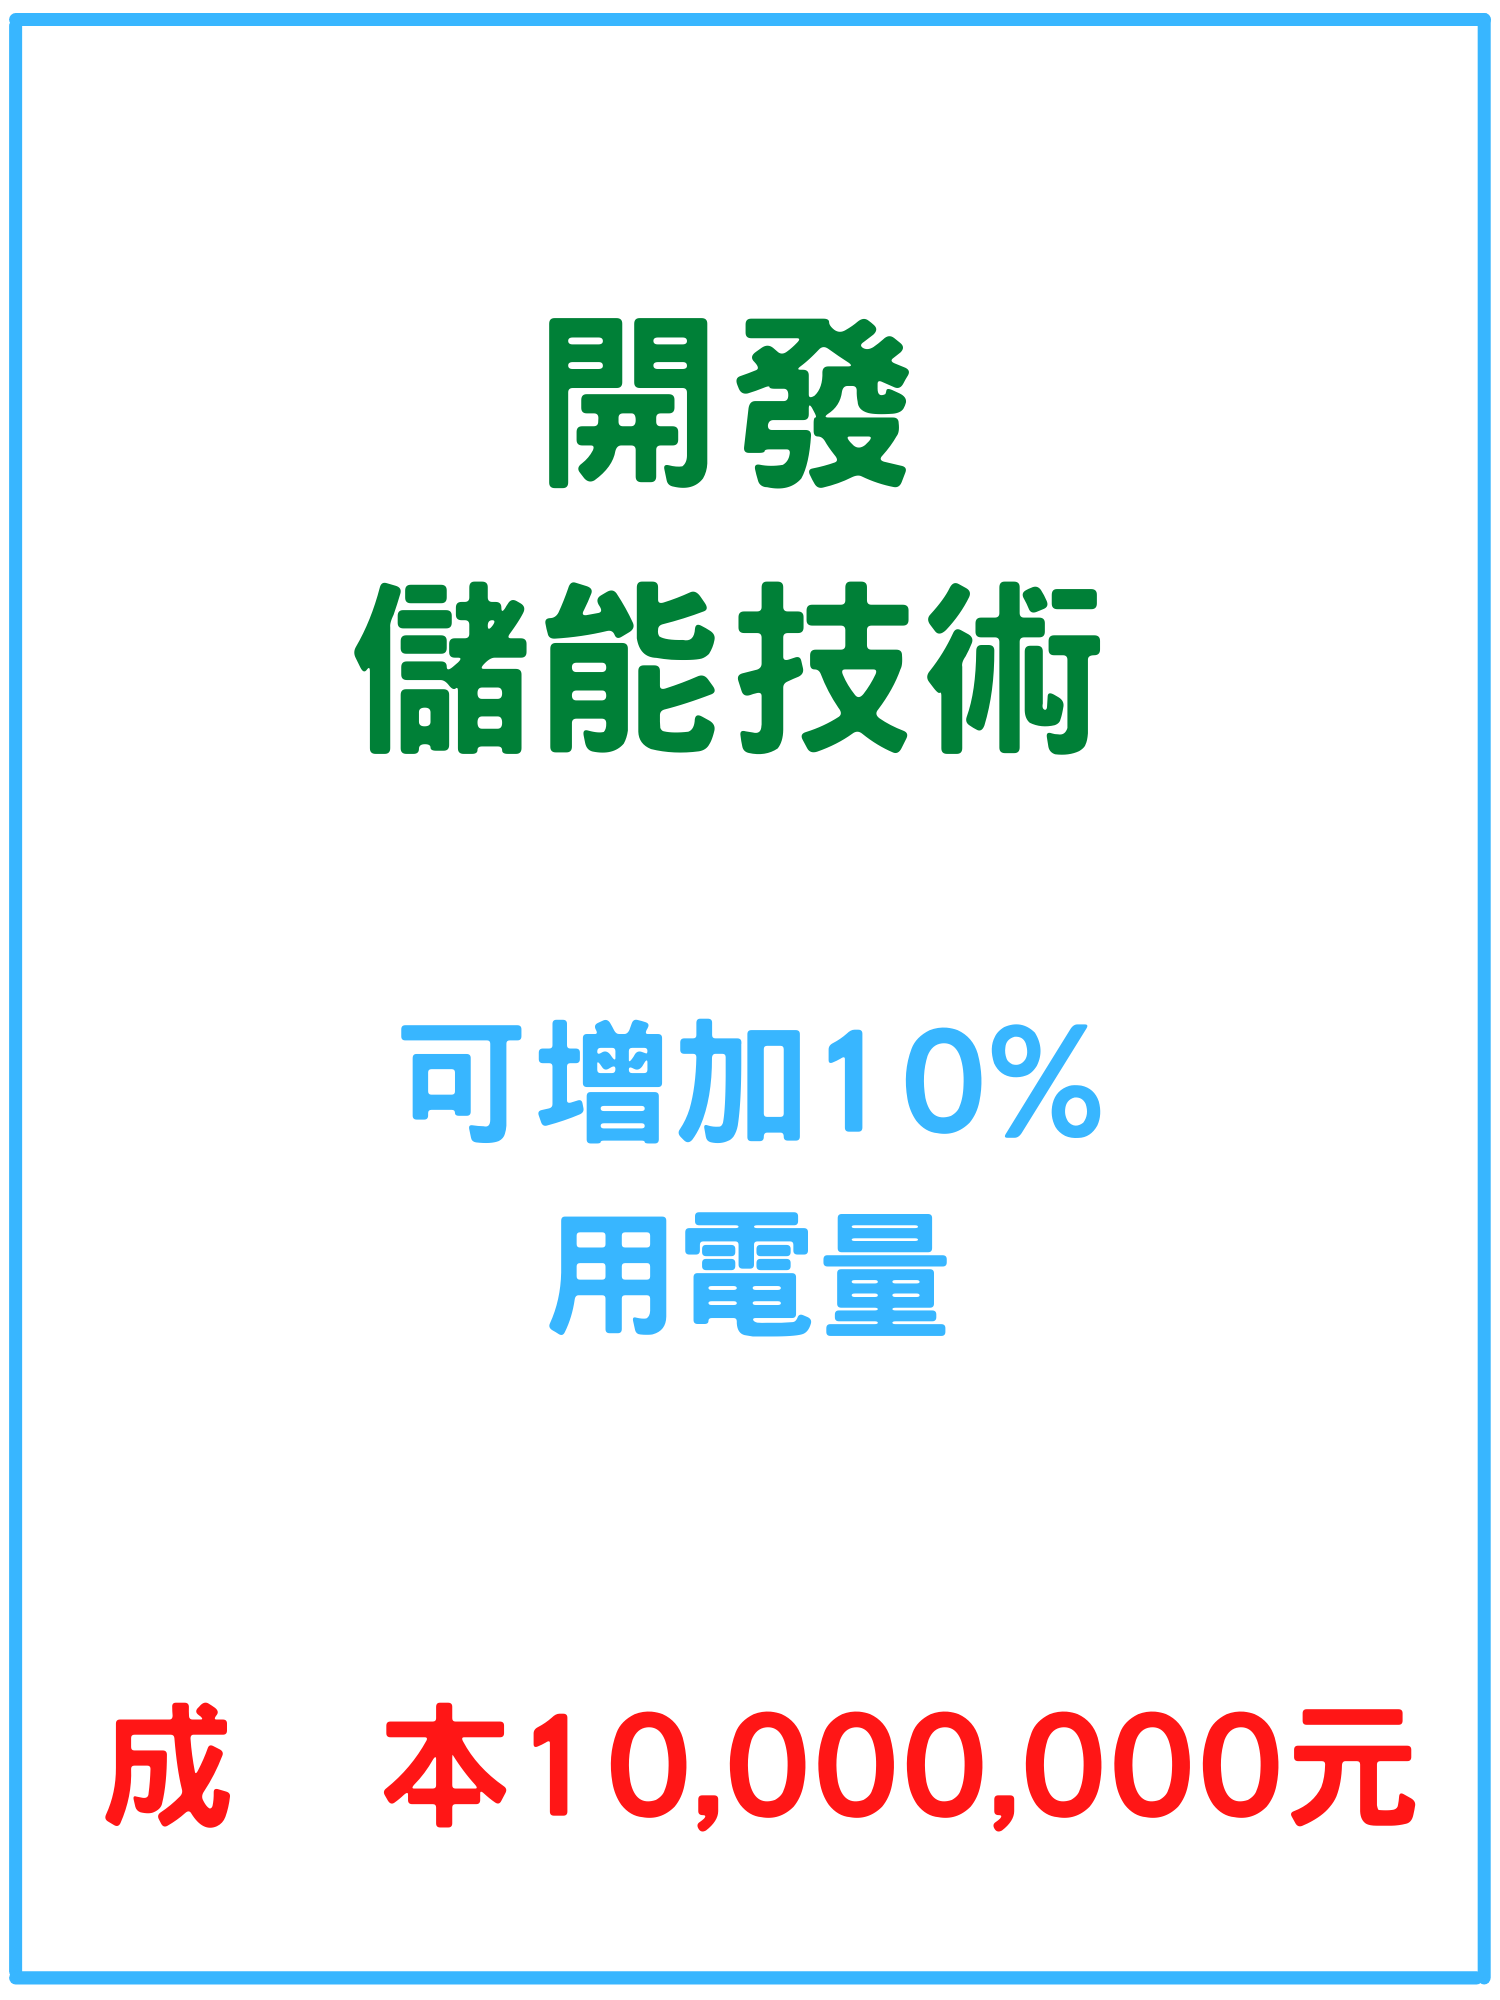
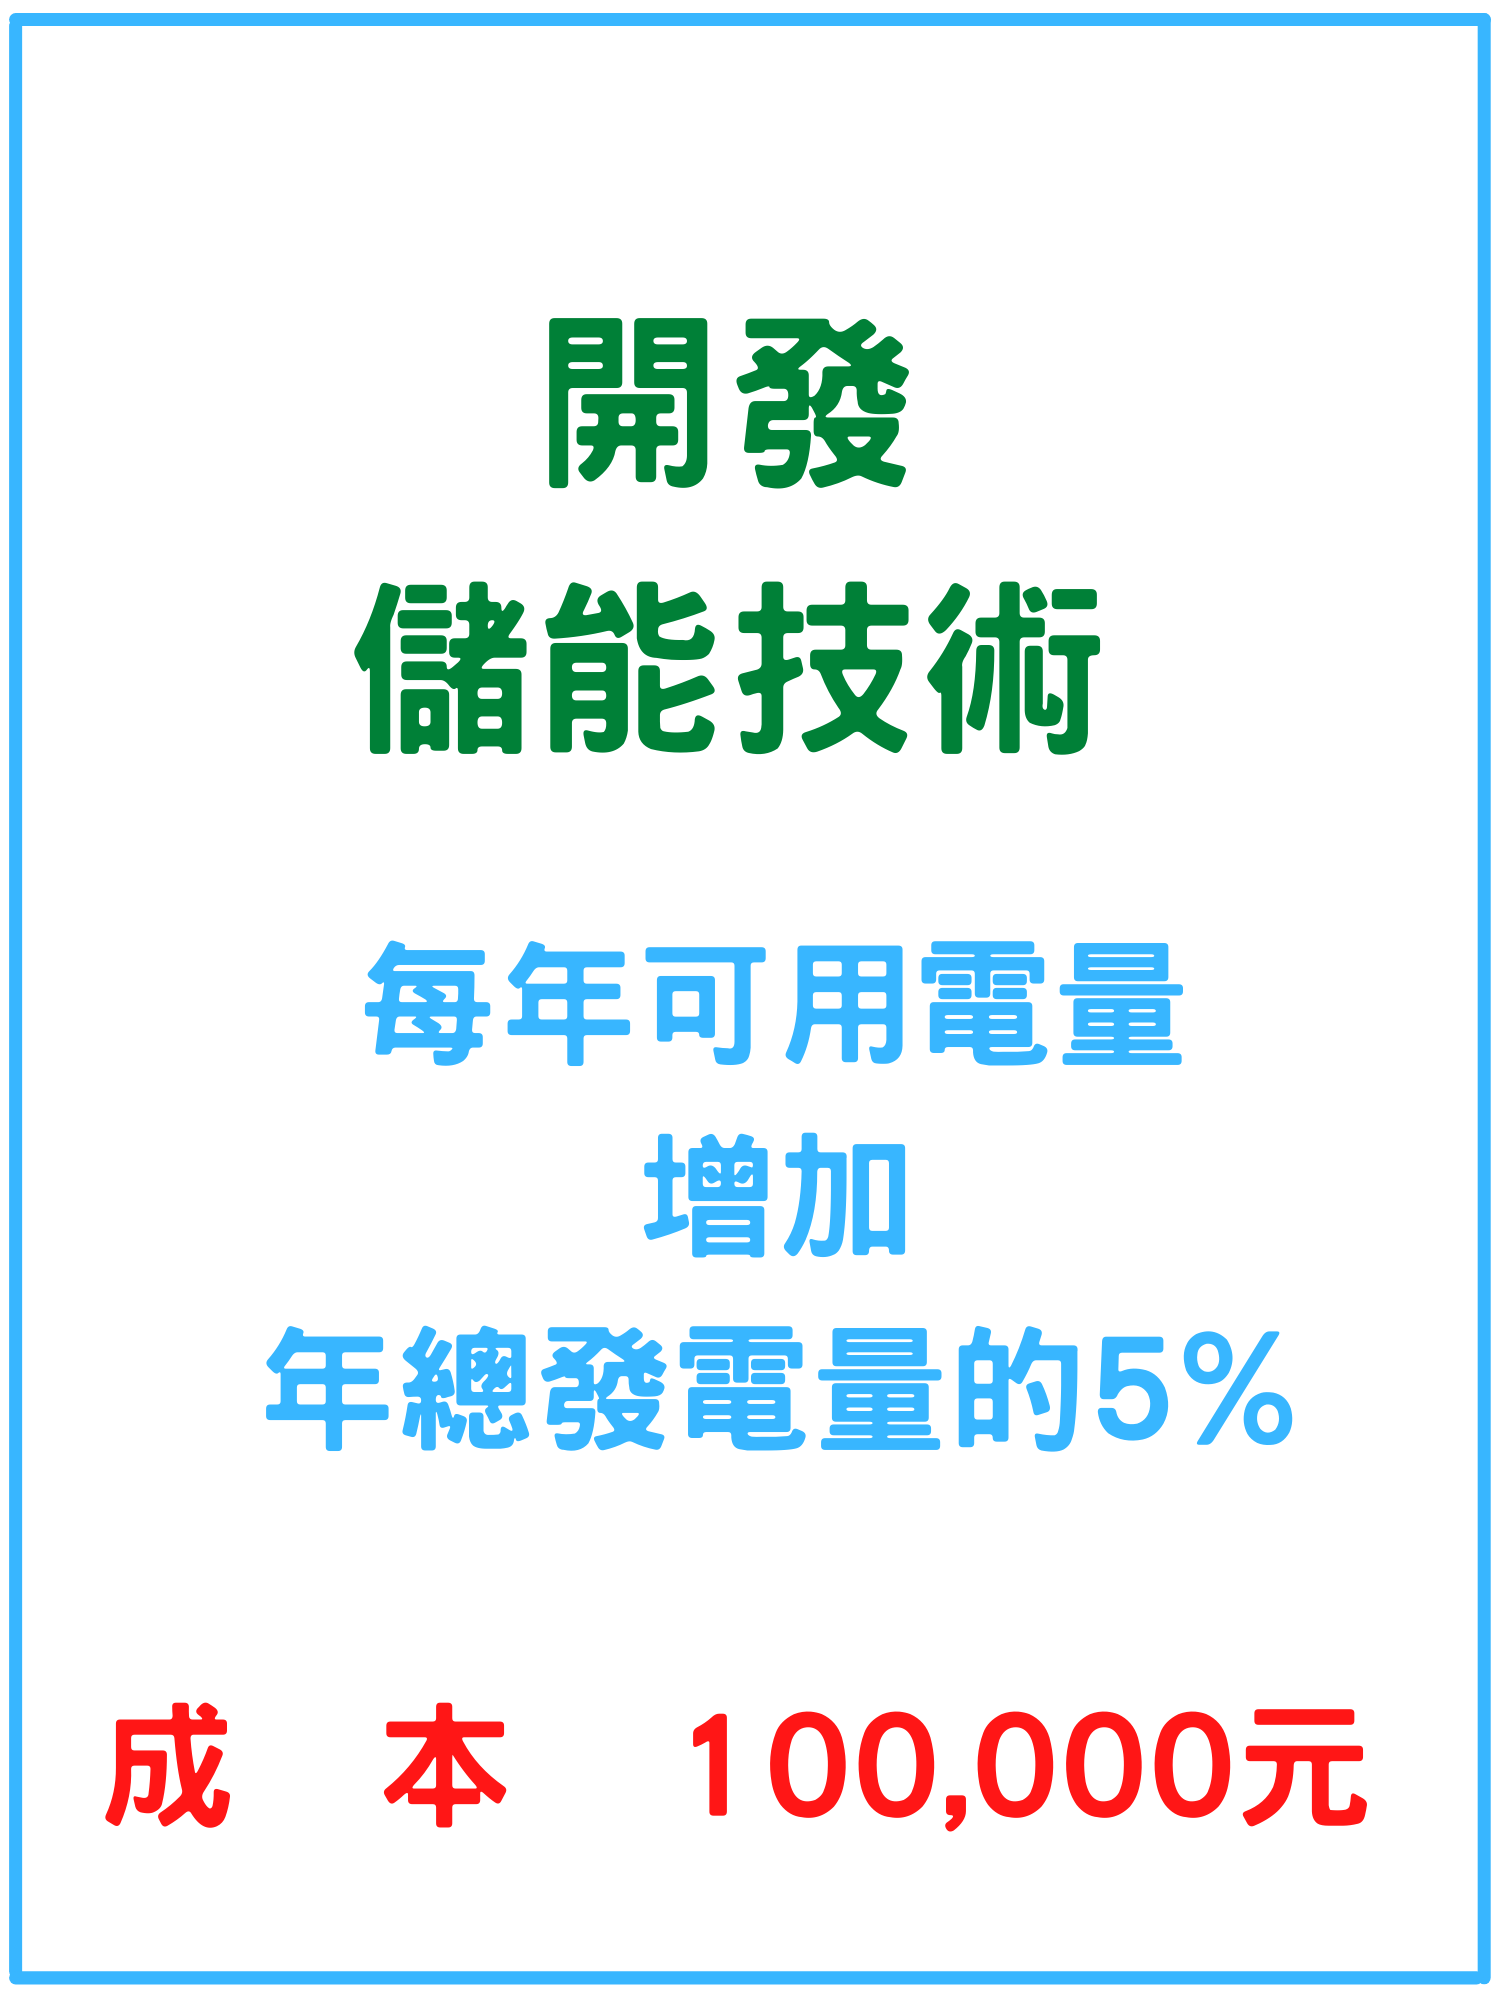
Add files via upload

Changed region(s): [[0.184, 0.465, 0.8587, 0.744], [0.3373, 0.837, 0.9507, 0.93]]

diff --git a/index.html b/index.html
@@ -133,11 +133,12 @@
 
   		<input  type="image"  name="png15"  id="png15"  img  src="15.png"  onClick="png15()" data-inline="true"style="width:23%">
   		<input  type="image"  name="png16"  id="png16"  img  src="16.png"  onClick="png16()" data-inline="true"style="width:23%;display: none;">
+  		<input  type="image"  name="png28"  id="png28"  img  src="28.png"  onClick="png28()" data-inline="true"style="width:23%;display: none;">
+  		<input  type="image"  name="png20"  id="png20"  img  src="20.png"  onClick="png20()" data-inline="true"style="width:23%;display: none;">
   		<input  type="image"  name="png17"  id="png17"  img  src="17.png"  onClick="png17()" data-inline="true"style="width:23%;display: none;">
   		<input  type="image"  name="png18"  id="png18"  img  src="18.png"  onClick="png18()" data-inline="true"style="width:23%;display: none;">
   		<input  type="image"  name="png27"  id="png27"  img  src="27.png"  onClick="png27()" data-inline="true"style="width:23%;display: none;">
-  		<input  type="image"  name="png19"  id="png19"  img  src="19.png"  onClick="png19()" data-inline="true"style="width:23%;display: none;">
-  		<input  type="image"  name="png20"  id="png20"  img  src="20.png"  onClick="png20()" data-inline="true"style="width:23%;display: none;">
+  		
 		
 
 	</div>
@@ -202,6 +203,8 @@ var powerUseful=0;
 var totalMoney=10;
 var totalcarbonEmission=0;
 
+var powerreuse=0;
+
 var level=1;
 
 var waternumber=0;
@@ -210,6 +213,8 @@ var gasnumber=0;
 var nuclearnumber=0;
 var solarnumber=0;
 var windnumber=0;
+
+
 
 
 function png1(){
@@ -548,7 +553,7 @@ function png15(){
 
 function png16(){
 
-	if(totalMoney>=100000&&annualIncome>=10000){
+	if(totalMoney>=100000&&annualIncome>=10000&&totalPower>=1000){
 
     totalMoney=totalMoney-100000;
 
@@ -563,7 +568,7 @@ function png16(){
     document.getElementById("png16").style.display='none';
     document.getElementById("png17").style.display='';
     document.getElementById("png18").style.display='';
-    document.getElementById("png19").style.display='';
+    document.getElementById("png28").style.display='';
     document.getElementById("png20").style.display='';
 
     document.getElementById("playBoard").style.display='none';
@@ -637,14 +642,22 @@ function png18(){
 
 }
 
-function png19(){
+function png28(){
 
-	if(totalMoney>=5000000){
+	if(totalMoney>=10000){
 
-        alert("遊戲開發中，目前尚無法開發此技術");
+        totalMoney=totalMoney-10000;
+        annualcarbonEmission=annualcarbonEmission-10;
+
+        document.getElementById("totalMoney").innerHTML=totalMoney+" 元";
+
+   	    document.getElementById("annualcarbonEmission").innerHTML=annualcarbonEmission+"公斤";
+
+
+        alert("已進行碳封存，每年碳排放將減少10公斤");
 
 	}else{
-		alert("目前條件無法購買");
+		alert("你的錢不夠造林");
 	}
 	
 
@@ -652,12 +665,19 @@ function png19(){
 
 function png20(){
 
-	if(totalMoney>=10000000){
+	if(totalMoney>=100000){
 
-        alert("遊戲開發中，目前尚無法開發此技術");
+		totalMoney=totalMoney-10000;
+
+		document.getElementById("totalMoney").innerHTML=totalMoney+" 元";
+		document.getElementById("png20").style.display='none';
+
+		powerreuse=1;
+
+        alert("未來可用電量將增加年總發電量的5%");
 
 	}else{
-		alert("目前條件無法購買");
+		alert("目前的錢無法夠買此技術");
 	}
 
 
@@ -899,8 +919,11 @@ function nextyear(){
 
     totalcarbonEmission=totalcarbonEmission+annualcarbonEmission;
 
+    powerUseful=powerUseful+parseInt(totalPower*0.05)*powerreuse;
+
     document.getElementById("totalMoney").innerHTML=totalMoney+" 元";
     document.getElementById("totalcarbonEmission").innerHTML=totalcarbonEmission+" 公斤";
+    document.getElementById("powerUseful").innerHTML=powerUseful+" 度";
 
     year=year+1;
     document.getElementById("year").innerHTML="第"+year+"年";   
